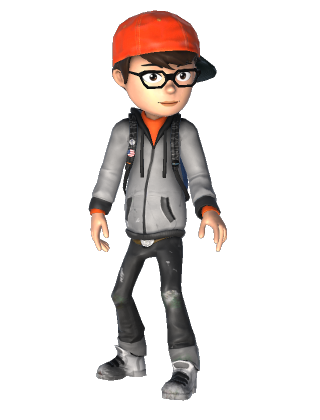
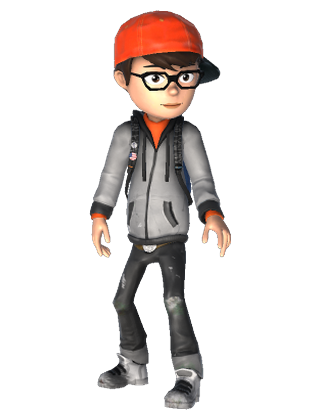
Name Entry: runner cards become a character-select stage
Owner: "name entry looks weird". The 3D runners stood small on flat white/grey
cards with an orange glow blob behind the chosen one - they read as stickers.

- Each card is a sky-blue stage with a soft floor shadow under the runner.
- Portraits cropped so the figure fills the card.
- Chosen card: brighter stage, thick sunny outline, green star badge; the
  orange halo is gone.
- "Pick your runner" is a bigger rounded heading.

Verified with a Play-mode capture. EditMode 74/74.

Changed region(s): [[0.2812, 0.031, 0.7188, 0.9905]]

diff --git a/Assets/_Game/Scripts/Features/NameEntry/NameEntryController.cs b/Assets/_Game/Scripts/Features/NameEntry/NameEntryController.cs
@@ -91,6 +91,11 @@ namespace SummaRace.Features.NameEntry
                 // outline, so nothing was holding the edge. Dark brown on that lime clears AA
                 // comfortably and needs no plaque, which is what keeps this a one-line fix.
                 avatarPromptText.color = SummaRace.Constants.Theme.TextBrownDeep;
+                // Game heading type, bigger: it is the screen's second question.
+                SummaRace.UI.GameSkin.Heading(avatarPromptText, SummaRace.Constants.Theme.TextBrownDeep, outlined: false);
+                avatarPromptText.enableAutoSizing = true;
+                avatarPromptText.fontSizeMin = 30f;
+                avatarPromptText.fontSizeMax = 58f;
             }
             if (confirmLabel != null) confirmLabel.text = GameText.NameEntryConfirm;
 
@@ -276,12 +281,17 @@ namespace SummaRace.Features.NameEntry
                 var image = avatarButtons[i].GetComponent<Image>();
                 if (image != null)
                 {
-                    // Chunky character card (game skin): white when chosen with a thick SUNNY
-                    // outline, a dimmer card with the normal dark outline when not.
-                    SummaRace.UI.GameSkin.Card(image, selected ? Color.white : new Color(0.94f, 0.94f, 0.96f),
-                        selected ? 10f : 5f, selected ? 12f : 6f);
-                    SummaRace.UI.GameSkin.Chunky(image, image.color, selected ? 10f : 5f, selected ? 12f : 6f,
+                    // CHARACTER-SELECT CARD (owner, 2026-09-15: "name entry looks weird"). A 3D
+                    // runner on a flat white card read as a sticker. Each card is now a sky-blue
+                    // STAGE with a floor shadow under the runner's feet, so the character stands
+                    // somewhere; the chosen one is brighter with a thick sunny outline and a green
+                    // star badge (the old orange glow blob behind the card is gone).
+                    var stage = selected ? new Color(0.60f, 0.82f, 1f) : new Color(0.80f, 0.87f, 0.94f);
+                    SummaRace.UI.GameSkin.Card(image, stage, selected ? 10f : 5f, selected ? 12f : 6f);
+                    SummaRace.UI.GameSkin.Chunky(image, stage, selected ? 10f : 5f, selected ? 12f : 6f,
                         selected ? SummaRace.Constants.Theme.Sunny : (Color?)null);
+                    EnsureFloorShadow(avatarButtons[i].transform);
+                    SetChosenBadge(avatarButtons[i].transform, selected);
                 }
 
                 // The runner's own portrait replaces the badge glyph, so the child chooses a
@@ -309,13 +319,56 @@ namespace SummaRace.Features.NameEntry
 
                 // Cue two: a gold halo around the chosen badge — a shape that is either there
                 // or not, readable with no colour discrimination at all.
+                // The soft gold halo read as an orange blob behind the card on the stage colour;
+                // the outline, the star badge and size now carry the selection.
                 if (_selectionRings != null && i < _selectionRings.Length && _selectionRings[i] != null)
-                    _selectionRings[i].gameObject.SetActive(selected);
+                    _selectionRings[i].gameObject.SetActive(false);
 
                 // Cue three: size.
                 var icon = AvatarIcon(i);
                 if (icon != null)
                     icon.localScale = selected ? Vector3.one * SelectedIconScale : Vector3.one;
+            }
+        }
+
+        /// <summary>A soft oval shadow under the runner's feet, drawn behind the portrait.</summary>
+        private static void EnsureFloorShadow(Transform card)
+        {
+            if (card.Find("FloorShadow") != null) return;
+            var go = new GameObject("FloorShadow", typeof(RectTransform));
+            go.transform.SetParent(card, false);
+            go.transform.SetSiblingIndex(0);
+            var img = go.AddComponent<Image>();
+            img.sprite = SummaRace.UI.GameSkin.RoundSprite;
+            img.color = new Color(0f, 0f, 0f, 0.22f);
+            img.raycastTarget = false;
+            var rt = img.rectTransform;
+            rt.anchorMin = new Vector2(0.22f, 0.03f);
+            rt.anchorMax = new Vector2(0.78f, 0.10f);
+            rt.offsetMin = Vector2.zero; rt.offsetMax = Vector2.zero;
+        }
+
+        /// <summary>Green badge with a gold star in the chosen card's top-right corner.</summary>
+        private static void SetChosenBadge(Transform card, bool on)
+        {
+            var existing = card.Find("ChosenBadge");
+            if (!on) { if (existing != null) existing.gameObject.SetActive(false); return; }
+            var label = SummaRace.UI.GameSkin.Badge(card, "ChosenBadge", "", SummaRace.Constants.Theme.Grass, Color.white,
+                new Vector2(1f, 1f), new Vector2(0.5f, 0.5f), new Vector2(-14f, -14f), 84f);
+            var badge = label.transform.parent;
+            badge.gameObject.SetActive(true);
+            badge.SetAsLastSibling();
+            if (badge.Find("Star") == null)
+            {
+                var star = new GameObject("Star", typeof(RectTransform));
+                star.transform.SetParent(badge, false);
+                var simg = star.AddComponent<Image>();
+                simg.sprite = Resources.Load<Sprite>("UI/icon_star");
+                simg.preserveAspect = true;
+                simg.raycastTarget = false;
+                var srt = simg.rectTransform;
+                srt.anchorMin = new Vector2(0.18f, 0.18f); srt.anchorMax = new Vector2(0.82f, 0.82f);
+                srt.offsetMin = Vector2.zero; srt.offsetMax = Vector2.zero;
             }
         }
 
